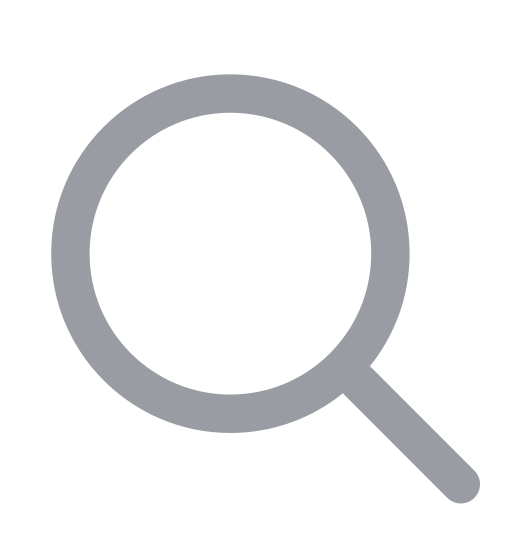
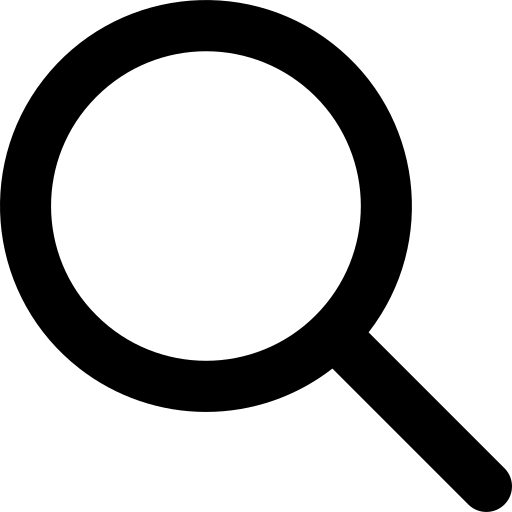
estilo finalizado

diff --git a/public/assets/css/style.css b/public/assets/css/style.css
@@ -6,13 +6,12 @@
 }
 /*Variables*/
 :root{
-    --color10: hsl(74, 80%, 10%);
-    --color30: hsl(74, 80%, 30%);
-    --color70: hsl(74, 90%, 70%);
-    --color95: hsl(74, 90%, 95%);
-    --color90: hsl(74, 80%, 90%);
-    --color100: hsl(74, 80%, 100%);
-    --accent: hsl(74, 80%, 70%);
+    --color10: hsl(0, 80%, 10%);
+    --color30: hsl(0, 0%, 30%);
+    --color70: hsl(0, 0%, 70%);
+    --color95: hsl(0, 0%, 95%);
+    --color90: hsl(0, 0%, 90%);
+    --color100: hsl(0, 0%, 100%);
     --ff: "Noto Sans JP", "serif";
     --ff2: "Fira Sans", "serif";
     --p: 1rem/1.5rem var(--ff);
@@ -39,7 +38,7 @@ body{
     font: var(--p);
 }
 h1{
-    font: var(--h1);
+    font-family: sans-serif;
 }
 h2{
     font: var(--h2);
@@ -55,27 +54,25 @@ form {
     flex-direction: column;
     justify-content: center;
     align-items: center;
+    margin-top: var(--spacing4);
 }
-.btn, button {
-    min-width: var(--spacing6);
-    height: var(--spacing5);
-    margin: var(--spacing2);
-    padding: 0 var(--spacing3);
-    border-radius: var(--spacing2);
+button {
+    margin: 20px 0 10px 0;
+    background-color: #151717;
     border: none;
-    font: var(--p);
-    display: inline-flex;
-    align-items: center;
-    justify-content: center;
+    color: white;
+    font-size: 15px;
+    font-weight: 500;
+    border-radius: 10px;
+    height: 50px;
+    width: 100%;
+    padding: var(--spacing3);
     cursor: pointer;
-}
-.btn:hover, button:hover {
-    transition: .5s;
+    font-family: sans-serif;
 }
 img{
     width: 100%;
 }
-
 .erro-container, .sucesso-container {
     background-color: hsl(0, 100%, 75%);
     color: white;
@@ -84,7 +81,7 @@ img{
     text-align: center;
     min-width: 200px;
     height: fit-content;
-    padding: var(--spacing3);
+    padding: var(--spacing2);
     margin-right: var(--spacing7);
     position: relative;
     margin: var(--spacing3);
@@ -107,11 +104,12 @@ img{
 }
 .aluguel{
     width: 100%;
-    padding: var(--spacing2);
+    padding-top: var(--spacing2);
+    padding-bottom: var(--spacing2);
     display: grid;
     grid-template-columns: 1fr 1fr 1fr 1fr;
     align-items: center;
-    background-color: var(--color70);
+    border-bottom: 4px solid lightgrey;
 }
 .grid-header{
     grid-template-columns: 1fr 1fr 1fr 1fr;
@@ -147,7 +145,7 @@ img{
 }
 .search-icon{
     background-image: url(/assets/imgs/search.png);
-    background-size: 25px;
+    background-size: 20px;
     background-repeat: no-repeat;
     background-position: center;
     background-color: var(--color70);
@@ -160,7 +158,7 @@ img{
 
     position: absolute;
     z-index: 1;
-    top: -10%;
+    top: -24%;
     right: 14%;
 }
 .radios{
@@ -183,6 +181,12 @@ img{
 .radios label{
     color: rgb(109, 108, 108);
     margin: 8px;
+}
+.form-container{
+    width: 60%;
+}
+.form-container button{
+    width: 60%;
 }
 /*Utility Classes*/
 .padding1{

diff --git a/public/assets/css/form.css b/public/assets/css/form.css
@@ -1,29 +1,40 @@
+
 .login, .registro {
     width: 40%;
+    height:60vh;
+    background-color: var(--color100);
     gap: var(--spacing3);
     display: flex;
     align-items: center;
     flex-direction: column;
-    padding: var(--spacing3);
+    padding: var(--spacing4);
+    border-radius: var(--spacing2);
     margin-top: var(--spacing6);
     margin-right: var(--spacing7);
 }
 .form{
-    width: 80%;
+    width: 100%;
 }
 .form-group{
     width: 100%;
     display: flex;
+    flex-direction: column;
     justify-content: start;
-    align-items: center;
-    gap: var(--spacing6);
-
+    margin-left: 10%;
     padding: var(--spacing2);
 }
 .form-group input{
-    width: 70%;
-    height: 25px;
+    width: 90%;
+    height:40px;
     padding: var(--spacing2);
+    border-radius: var(--spacing2);
+    border: 1px solid lightgrey;
+}
+.form-group p{
+    font-size: 16px;
+    color: black;
+    font-weight: 600;
+    font-family: sans-serif;
 }
 .links{
     display: flex;
@@ -31,10 +42,14 @@
     justify-content: center;
     flex-direction: column;
 }
+.links a{
+    text-decoration: none;
+    color: blue;
+}
 .secao{
     height: 100vh;
     width: 30%;
-    background-color: blue;
+    background: repeating-linear-gradient(45deg, #92c9b1, #92c9b1 20px, #b3e0d2 20px, #b3e0d2 40px);
     right: 0;
     position: fixed;
     top: 0;
@@ -43,4 +58,18 @@
 .form-container{
     padding: var(--spacing3);
     border-radius: var(--spacing2);
+}
+.btn{
+    width: 100%;
+    margin: 20px 0 10px 0;
+    background-color: #151717;
+    border: none;
+    color: white;
+    font-size: 15px;
+    font-weight: 500;
+    border-radius: 10px;
+    height: 50px;
+    width: 100%;
+    cursor: pointer;
+    font-family: sans-serif;
 }

diff --git a/public/assets/js/header.js b/public/assets/js/header.js
@@ -10,7 +10,10 @@ class Header extends HTMLElement {
             this.innerHTML = `
             <div class="header">
                 <h2>Rent-Flow</h2>
+                <div>
+                <a href="/">Homepage</a>            
                 <a href="/login/logout">Sair</a>            
+                </div>
             </div>`
         } else {
         this.innerHTML = `

diff --git a/public/assets/css/header.css b/public/assets/css/header.css
@@ -6,10 +6,13 @@
     right: 0;
     width: 100vw;
     padding: var(--spacing3);
+    z-index: 1;
 }
 .header a {
     margin-right: var(--spacing3);
-
+    color: black;
+    font-family: sans-serif;
+    font-weight: 600;
 }
 body {
     margin-top: var(--spacing6);
